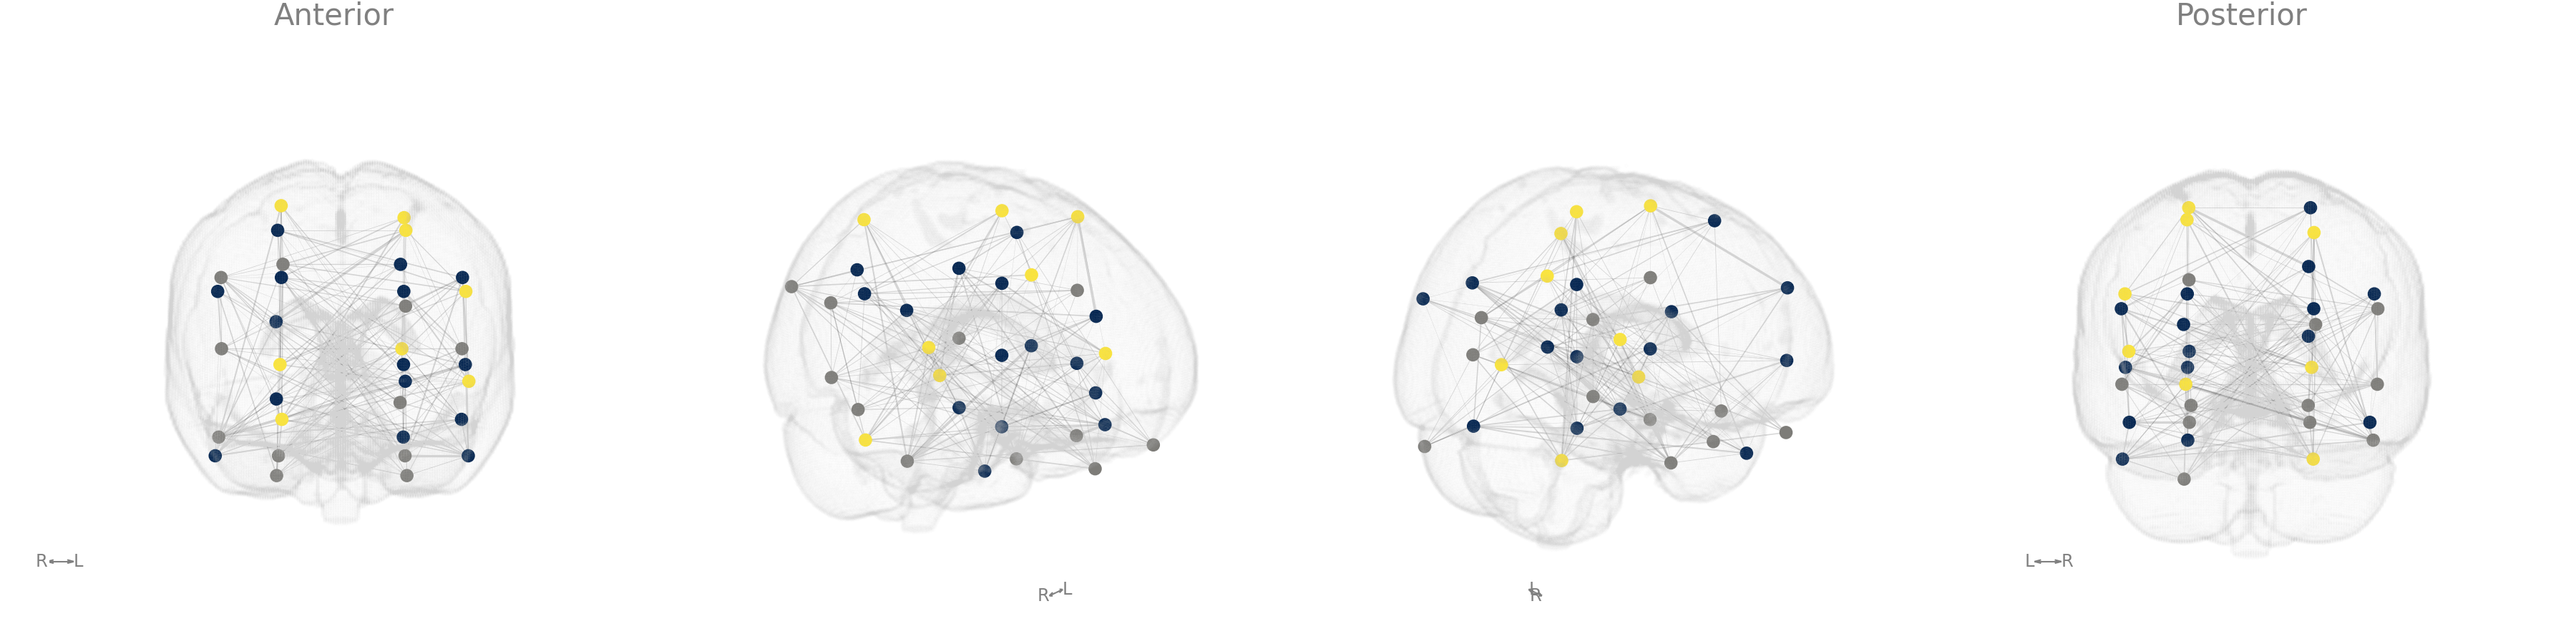
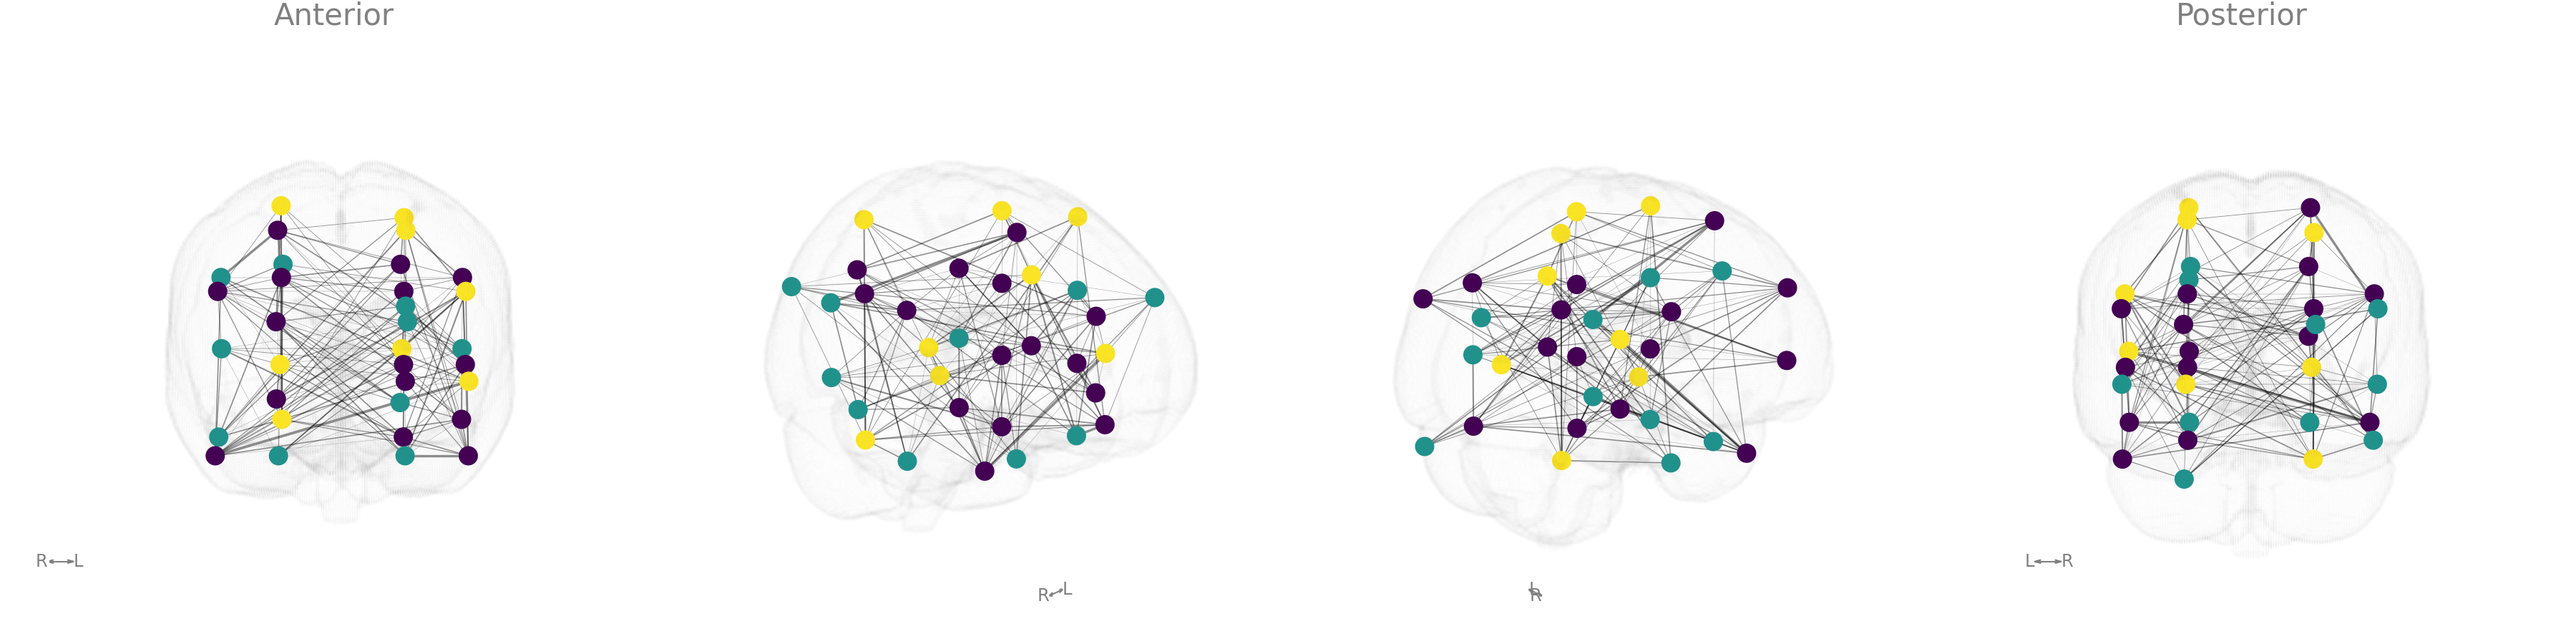
new fig and code views and rotations

diff --git a/views.py b/views.py
@@ -13,14 +13,14 @@ edges = pd.read_csv('./example_edges.tsv', sep='\t', index_col=0)
 netplotbrain.plot(nodes=nodes,
                   edges=edges,
                   edgescale=5,
+                  edgealpha=3,
                   template='MNI152NLin6Asym',
                   templatestyle='glass',
-                  template_glass_maxalpha=0.07,
                   view='preset-6',
                   nodecolor='community',
                   nodecmap='viridis',
                   nodetype='circles',
-                  nodescale=12,
+                  nodescale=30,
                   nodealpha=1,
                   arrowaxis=None,
                   showlegend=False)
@@ -31,14 +31,14 @@ plt.savefig('./figures/preset6.png', dpi=300)
 netplotbrain.plot(nodes=nodes,
                   edges=edges,
                   edgescale=5,
+                  edgealpha=3,
                   template='MNI152NLin6Asym',
                   templatestyle='glass',
-                  template_glass_maxalpha=0.07,
                   view='preset-4',
                   nodecolor='community',
                   nodecmap='viridis',
                   nodetype='circles',
-                  nodescale=12,
+                  nodescale=30,
                   nodealpha=1,
                   arrowaxis=None,
                   showlegend=False)
@@ -49,15 +49,15 @@ plt.savefig('./figures/preset4.png', dpi=300)
 netplotbrain.plot(nodes=nodes,
                   edges=edges,
                   edgescale=5,
+                  edgealpha=3,
                   template='MNI152NLin6Asym',
                   templatestyle='glass',
-                  template_glass_maxalpha=0.07,
                   view=['AP'],
                   frames=4,
                   nodecolor='community',
-                  nodecmap='cividis',
+                  nodecmap='viridis',
                   nodetype='circles',
-                  nodescale=12,
+                  nodescale=30,
                   nodealpha=1,
                   showlegend=False)
 
@@ -67,15 +67,15 @@ plt.savefig('./figures/4framesrot.png', dpi=300)
 netplotbrain.plot(nodes=nodes,
                   edges=edges,
                   edgescale=5,
+                  edgealpha=3,
                   template='MNI152NLin6Asym',
                   templatestyle='glass',
-                  template_glass_maxalpha=0.07,
                   view=['AP'],
                   frames=5,
                   nodecolor='community',
-                  nodecmap='cividis',
+                  nodecmap='viridis',
                   nodetype='circles',
-                  nodescale=12,
+                  nodescale=30,
                   nodealpha=1,
                   showlegend=False)
 
